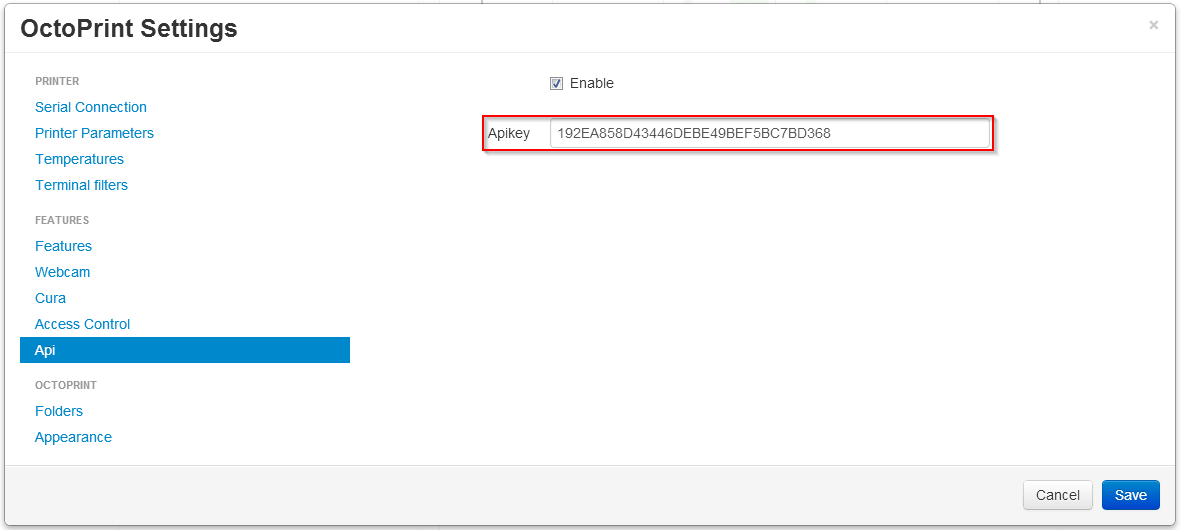
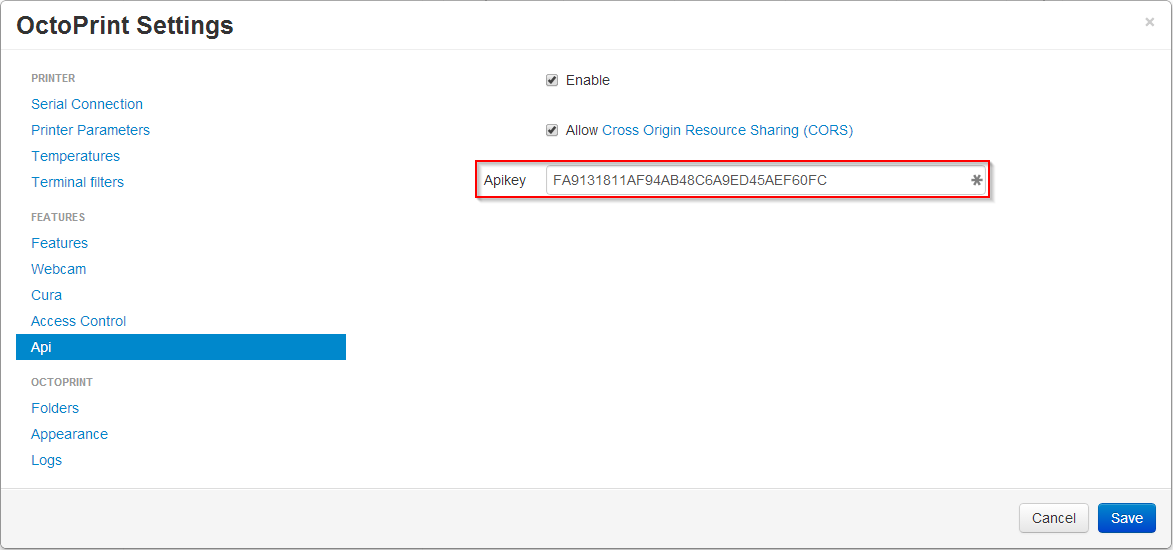
<a> - Added checkbox to the settings dialog for CORS, also slight changes in the documentation

diff --git a/src/octoprint/static/js/app/viewmodels/settings.js b/src/octoprint/static/js/app/viewmodels/settings.js
@@ -6,6 +6,7 @@ function SettingsViewModel(loginStateViewModel, usersViewModel) {
 
     self.api_enabled = ko.observable(undefined);
     self.api_key = ko.observable(undefined);
+    self.api_allowCrossOrigin = ko.observable(undefined);
 
     self.appearance_name = ko.observable(undefined);
     self.appearance_color = ko.observable(undefined);
@@ -188,6 +189,7 @@ function SettingsViewModel(loginStateViewModel, usersViewModel) {
     self.fromResponse = function(response) {
         self.api_enabled(response.api.enabled);
         self.api_key(response.api.key);
+        self.api_allowCrossOrigin(response.api.allowCrossOrigin);
 
         self.appearance_name(response.appearance.name);
         self.appearance_color(response.appearance.color);
@@ -250,7 +252,8 @@ function SettingsViewModel(loginStateViewModel, usersViewModel) {
         var data = {
             "api" : {
                 "enabled": self.api_enabled(),
-                "key": self.api_key()
+                "key": self.api_key(),
+                "allowCrossOrigin": self.api_allowCrossOrigin()
             },
             "appearance" : {
                 "name": self.appearance_name(),

diff --git a/src/octoprint/server/api/settings.py b/src/octoprint/server/api/settings.py
@@ -28,7 +28,8 @@ def getSettings():
 	return jsonify({
 		"api": {
 			"enabled": s.getBoolean(["api", "enabled"]),
-			"key": s.get(["api", "key"])
+			"key": s.get(["api", "key"]),
+			"allowCrossOrigin": s.get(["api", "allowCrossOrigin"])
 		},
 		"appearance": {
 			"name": s.get(["appearance", "name"]),
@@ -107,8 +108,9 @@ def setSettings():
 		s = settings()
 
 		if "api" in data.keys():
-			if "enabled" in data["api"].keys(): s.set(["api", "enabled"], data["api"]["enabled"])
+			if "enabled" in data["api"].keys(): s.setBoolean(["api", "enabled"], data["api"]["enabled"])
 			if "key" in data["api"].keys(): s.set(["api", "key"], data["api"]["key"], True)
+			if "allowCrossOrigin" in data["api"].keys(): s.setBoolean(["api", "allowCrossOrigin"], data["api"]["allowCrossOrigin"])
 
 		if "appearance" in data.keys():
 			if "name" in data["appearance"].keys(): s.set(["appearance", "name"], data["appearance"]["name"])

diff --git a/src/octoprint/server/api/__init__.py b/src/octoprint/server/api/__init__.py
@@ -93,9 +93,8 @@ def beforeApiRequests():
 
 @api.after_request
 def afterApiRequests(resp):
-	""""""
 
-    # Allow crossdomain
+	# Allow crossdomain
 	allowCrossOrigin = s().getBoolean(["api", "allowCrossOrigin"])
 	if request.method != 'OPTIONS' and 'Origin' in request.headers and allowCrossOrigin:
 		resp.headers['Access-Control-Allow-Origin'] = request.headers['Origin']

diff --git a/docs/api/general.rst b/docs/api/general.rst
@@ -74,28 +74,37 @@ Encoding
 
 OctoPrint uses UTF-8 as charset.
 
-
 .. _sec-api-cross-origin:
 
 Cross-origin requests
-===================
-To make use of the Octoprint API from websites other than the Octoprint web interface,
-cross-origin resource sharing (`CORS <http://en.wikipedia.org/wiki/Cross-origin_resource_sharing>`) must be enabled.
-This is the case even when the website in question is served from a different port on the same machine, and on localhost.
+=====================
 
-To enable this feature, set the ``allowCrossOrigin`` key in ``config.yml`` to ``true``.
+To make use of the OctoPrint API from websites other than the OctoPrint web interface,
+cross-origin resource sharing (`CORS <http://en.wikipedia.org/wiki/Cross-origin_resource_sharing>`_) must be enabled.
+This is the case even when the website in question is served from a different port on the same machine and on localhost.
+
+To enable this feature, set the ``allowCrossOrigin`` key of the ``api`` section in ``config.yml`` to ``true`` or
+check the corresponding checkbox in the API settings dialog.
 
 .. code-block:: yaml
 
    api:
      enabled: true
-     key: MYKEY
+     key: ...
      allowCrossOrigin: true
 
+.. _fig-api-general-apicors:
+.. figure:: ../images/settings-api-cors.png
+   :align: center
+   :alt: CORS configuration in the API settings
+
+   Support for CORS can be enabled in the "API" settings
+
 .. note::
-   This means any browser page can send requests to the Octoprint API. Authorization is still required, however.
+   This means any browser page can send requests to the OctoPrint API. Authorization is still required however.
 
-If CORS is not enabled, you will get errors similar to:
+If CORS is not enabled you will get errors like the following::
 
-``XMLHttpRequest cannot load http://localhost:8081/api/files. No 'Access-Control-Allow-Origin' header is present on the requested resource.``
+   XMLHttpRequest cannot load http://localhost:8081/api/files. No 'Access-Control-Allow-Origin'
+   header is present on the requested resource.
 
